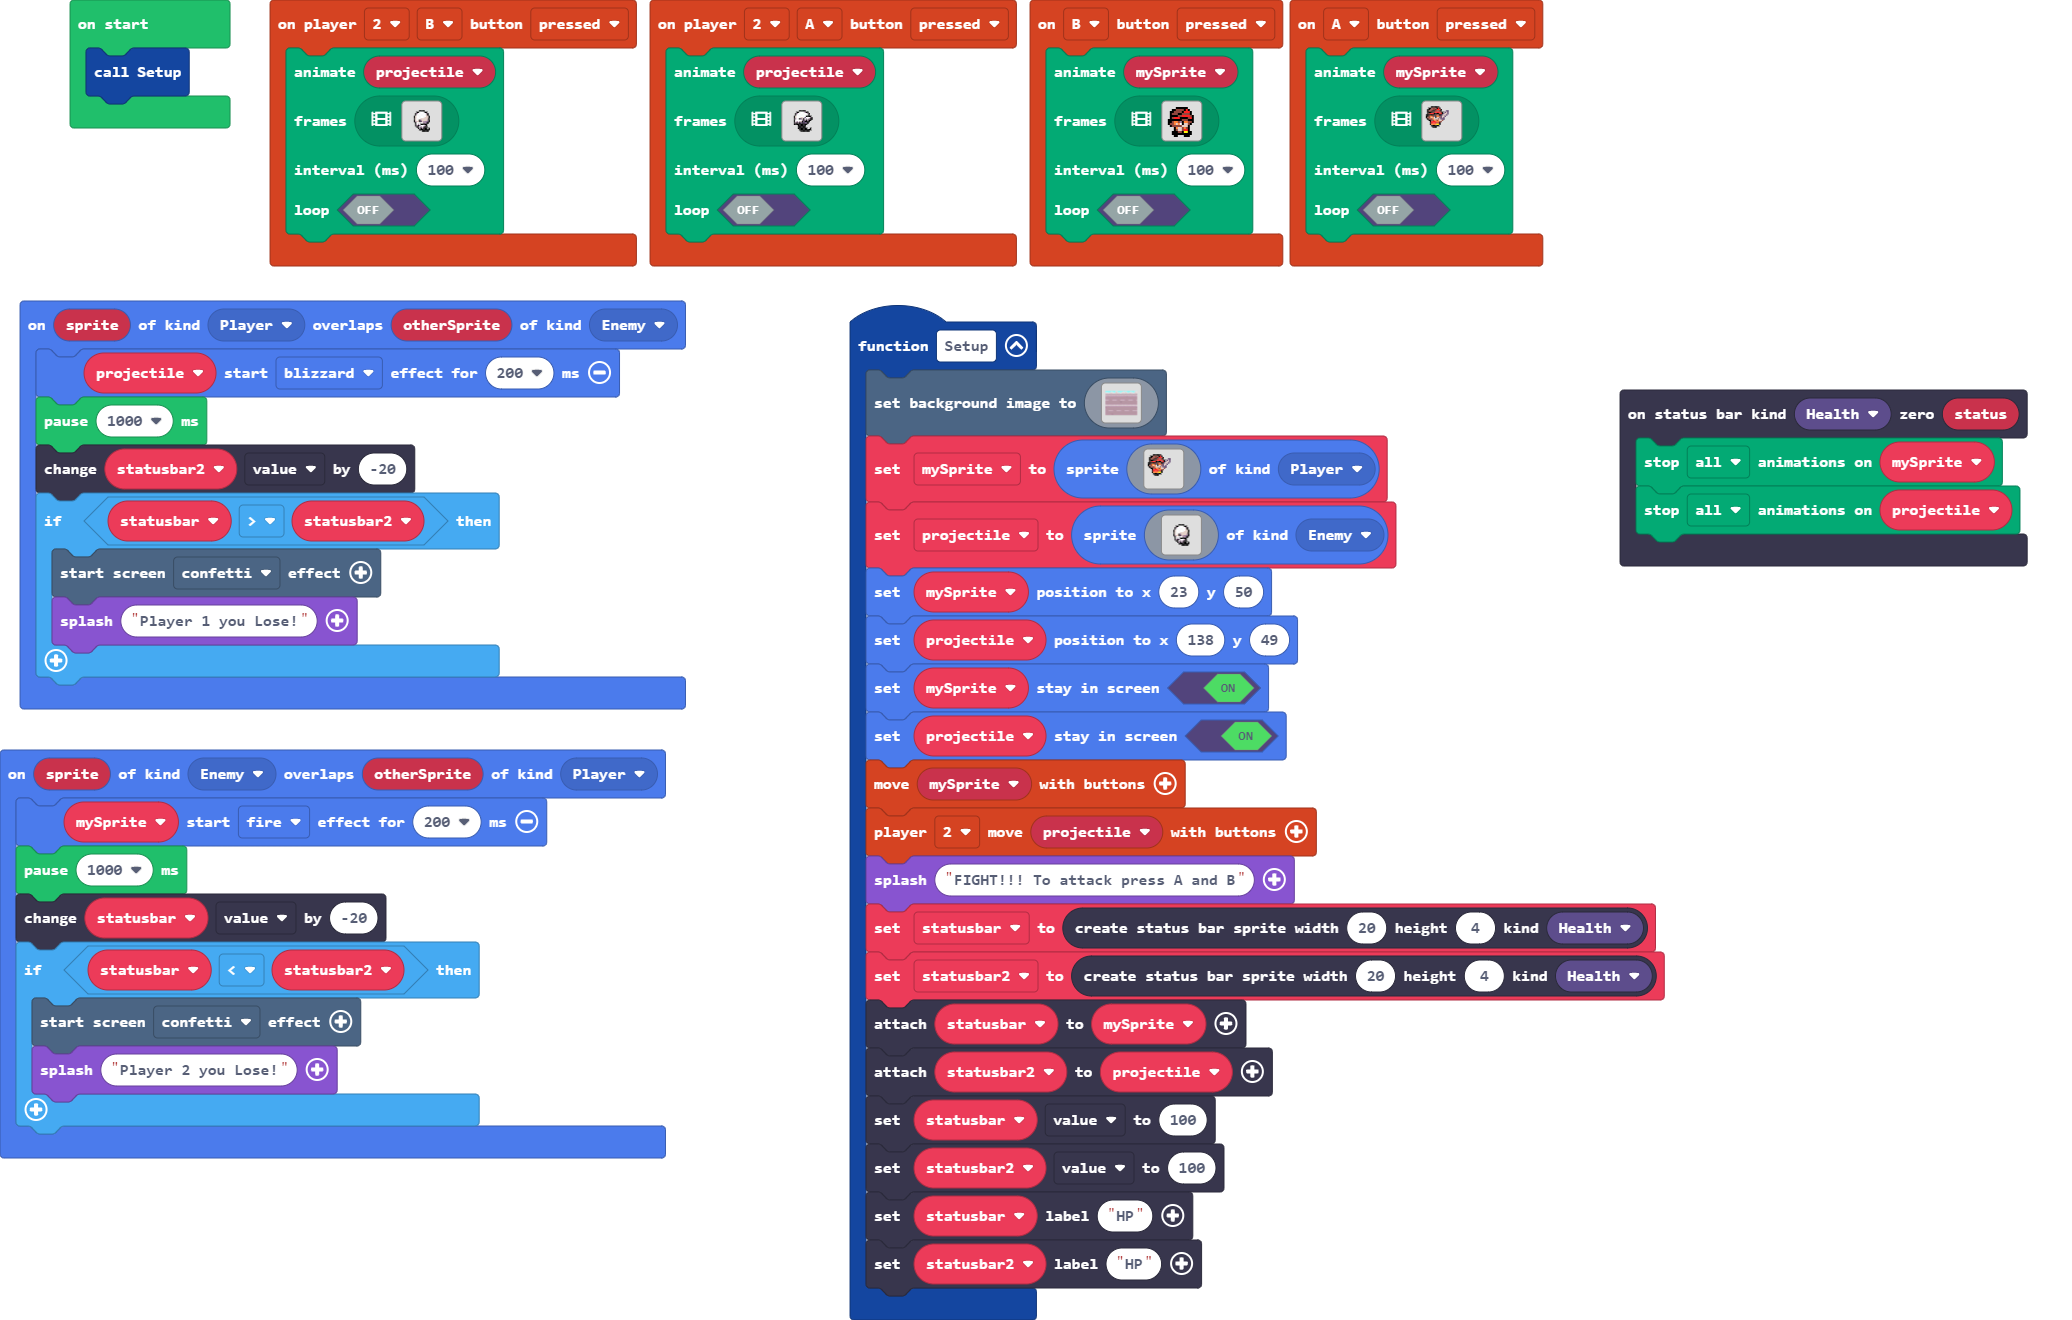
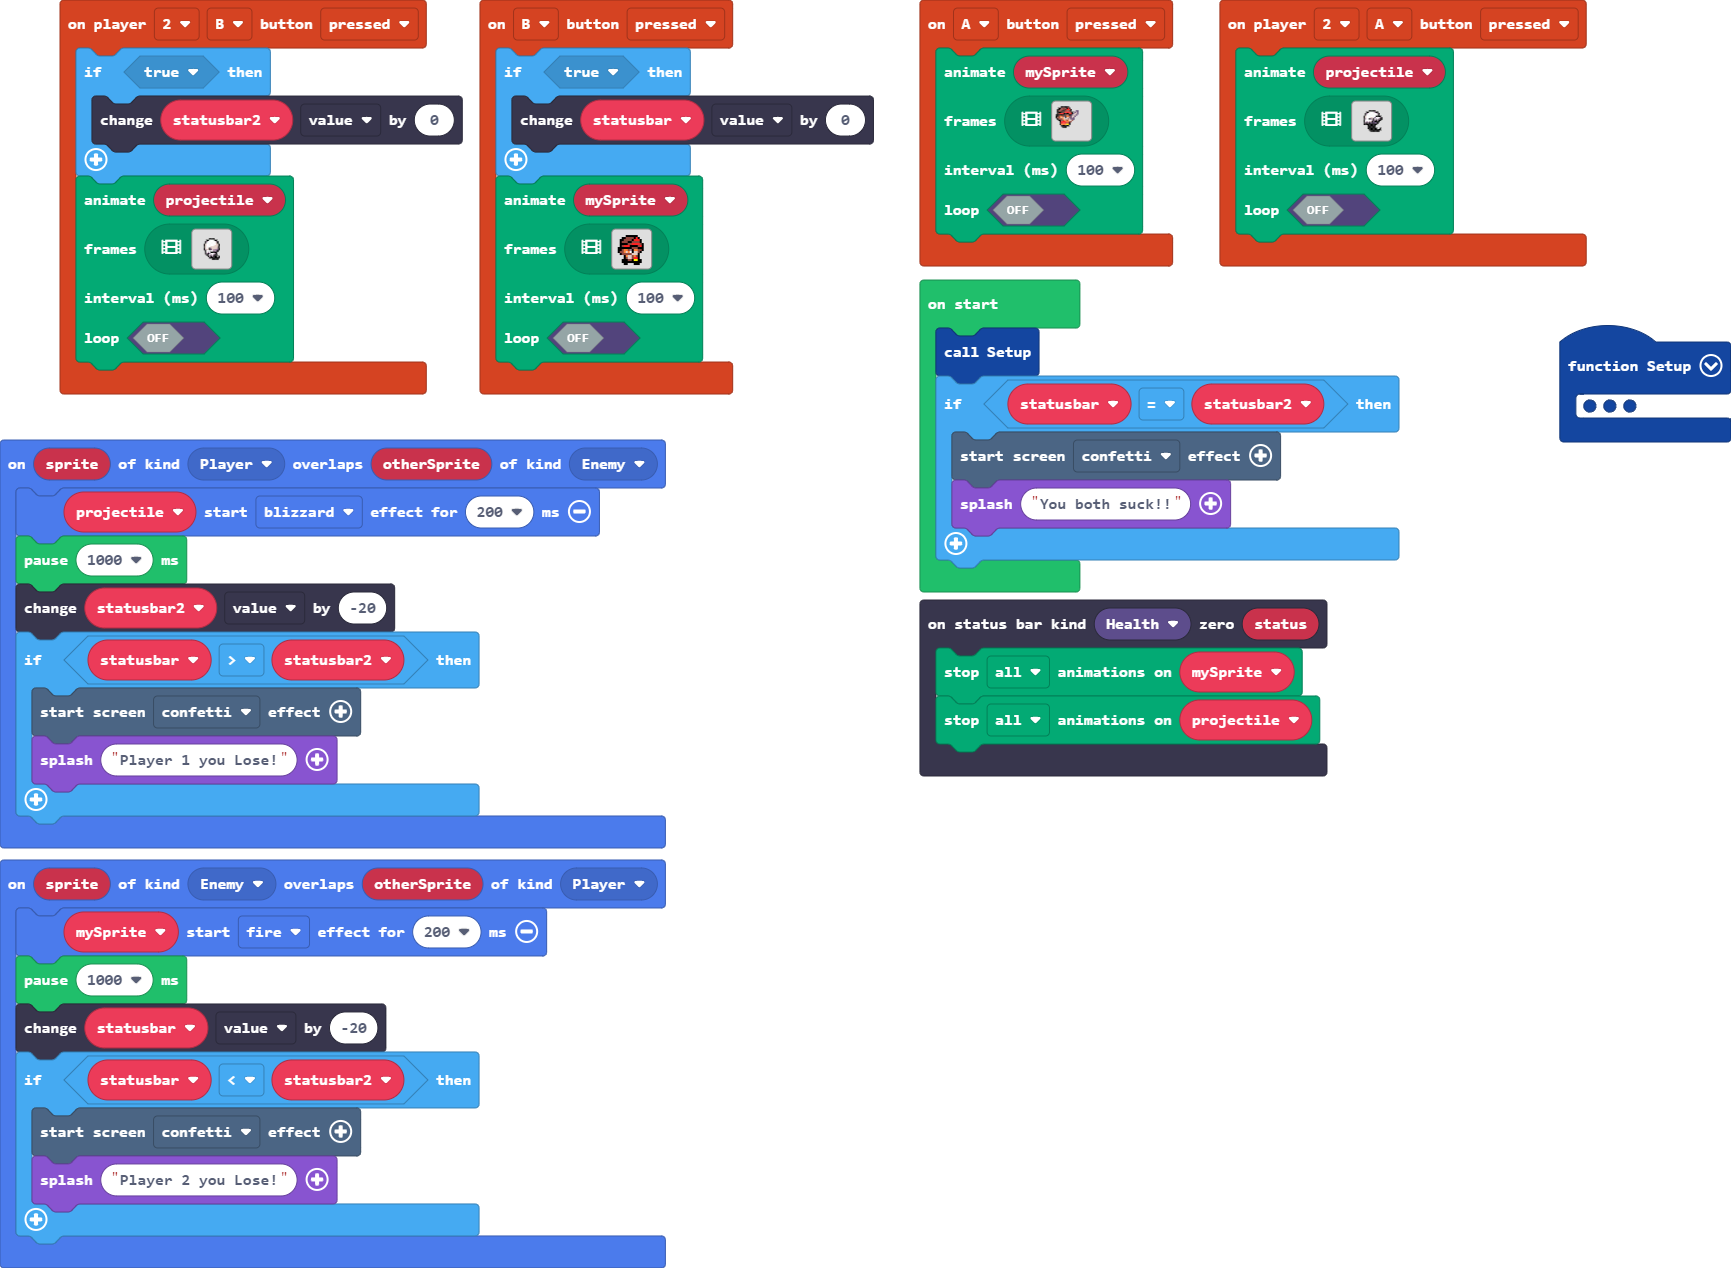
Update pxt.json, main.blocks, main.ts

diff --git a/main.ts b/main.ts
@@ -1,4 +1,7 @@
 controller.player2.onButtonEvent(ControllerButton.B, ControllerButtonEvent.Pressed, function () {
+    if (true) {
+        statusbar2.value += 0
+    }
     animation.runImageAnimation(
     projectile,
     [img`
@@ -57,6 +60,9 @@ controller.player2.onButtonEvent(ControllerButton.B, ControllerButtonEvent.Press
     )
 })
 controller.B.onEvent(ControllerButtonEvent.Pressed, function () {
+    if (true) {
+        statusbar.value += 0
+    }
     animation.runImageAnimation(
     mySprite,
     [img`
@@ -511,8 +517,12 @@ sprites.onOverlap(SpriteKind.Player, SpriteKind.Enemy, function (sprite, otherSp
         game.splash("Player 1 you Lose!")
     }
 })
-let statusbar2: StatusBarSprite = null
-let statusbar: StatusBarSprite = null
 let mySprite: Sprite = null
 let projectile: Sprite = null
+let statusbar2: StatusBarSprite = null
+let statusbar: StatusBarSprite = null
 Setup()
+if (statusbar == statusbar2) {
+    effects.confetti.startScreenEffect()
+    game.splash("You both suck!!")
+}
